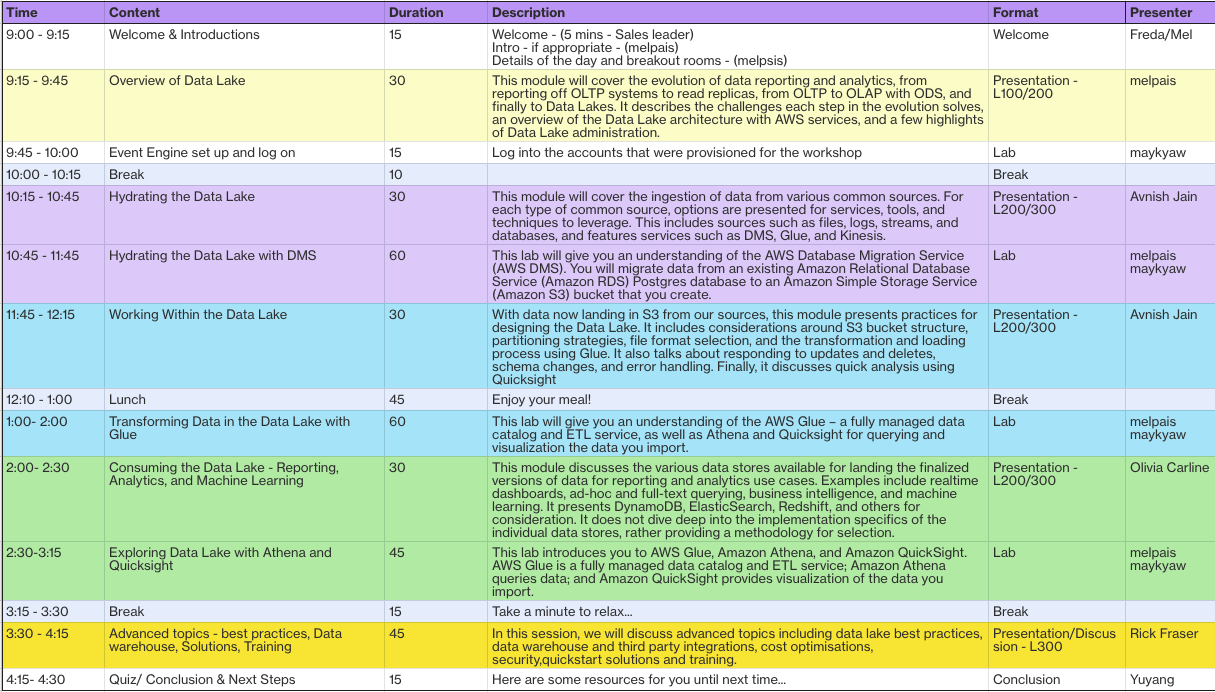
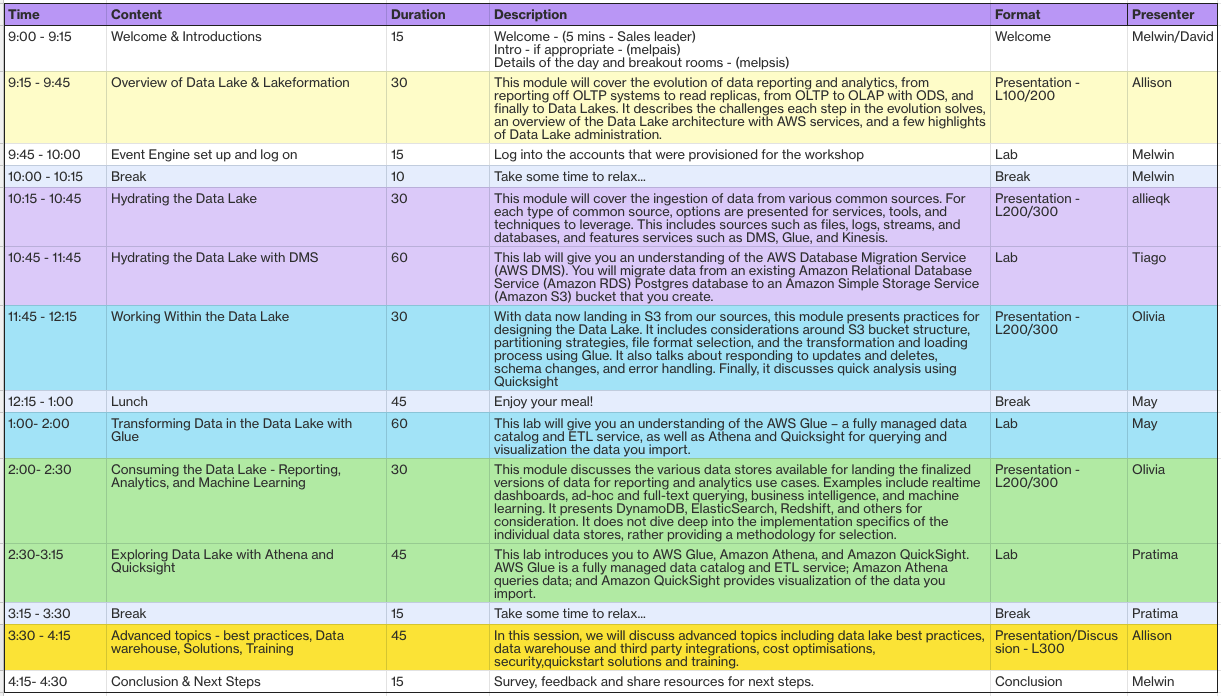
Update foir July 19

diff --git a/README.md b/README.md
@@ -1,5 +1,5 @@
 # AWS Data Immersion Day
-This is a helper page for immersion day on June 2nd 2022.
+This is a helper page for immersion day on July 19th 2022.
 
 ### Agenda
 The agenda is as below; time is in AEST and is subject to change depending on the progress.
@@ -22,16 +22,3 @@ The agenda is as below; time is in AEST and is subject to change depending on th
     * [Athena Federated query](https://catalog.us-east-1.prod.workshops.aws/workshops/976050cc-0606-4b23-b49f-ca7b8ac4b153/en-US/800/820-athena-federated-query)
 
 The participants are free to explore other areas however the support staff will prioritise queries from predefined labs.
-
-### Housekeeping
-* The main meeting room is reserved for presentations and high level QnA. If you need lengthy troubleshooting with your labs, please switch to the support channel.
-
-### Lunch
-$30 UberEats voucher will be sent to registered participants. 
-* The voucher value is $30 and will expire by tomorrow.
-* If UberEats is not operational in your area (regional AU or outside ANZ) please let us know.
-* If you wish not to use the voucher due to compliance reasons, please let us know by 10am or ignore the email.
-
-### Meeting rooms
-* The main meeting room is https://chime.aws/5571436715 or meeting id 5571 43 6715
-* The breakout meeting room is https://chime.aws/8009640891 or 8009 64 0891
